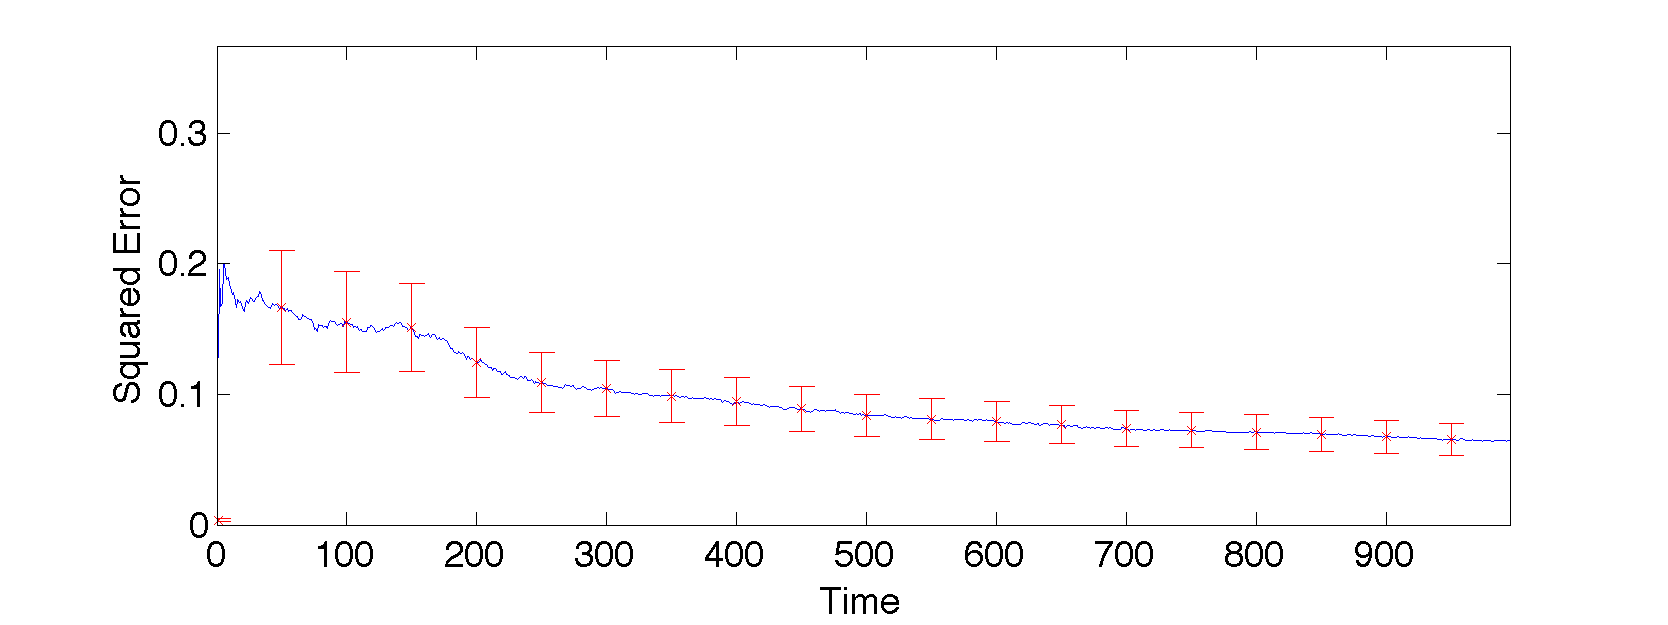
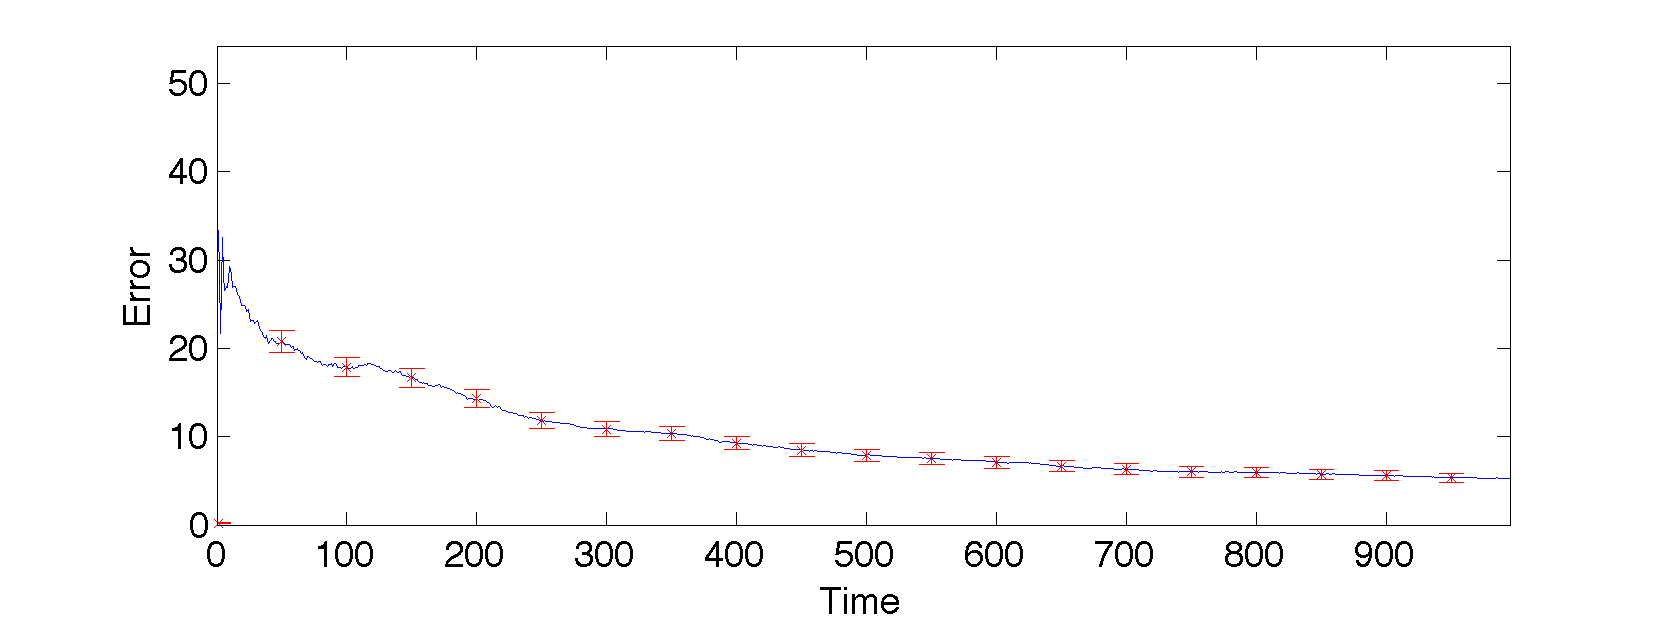
added std to results plot

diff --git a/experimentPQVTRGBBplot.m b/experimentPQVTRGBBplot.m
@@ -1,0 +1,169 @@
+f = figure('position',[10,10,800,300]);
+
+%% Position
+
+values = meanDistanceError(2:2:end-6);
+values2 = meanDistanceError(1:100:end-6);
+values2STD = stdDistanceError(1:100:end-6);
+plot(1:length(values),values);
+hold on;
+errorbar([1 (1:length(values2)-1)*50],values2,values2STD,'xr');
+hold off;
+
+axis([0 length(values) 0 max(values)+max(values2)]);
+xlabel('Time'); ylabel('Error');
+ 
+set(gca,'FontSize',18);
+set(get(gca,'XLabel'),'FontSize',18); 
+set(get(gca,'YLabel'),'FontSize',18); 
+set(gcf,'PaperUnits','points')
+set(gcf,'PaperPosition',[10,10,800,300])
+
+print(gcf, 'final-report/experiment-Distance.png', '-dpng');
+
+%% Orientation
+
+values = meanOrientationError(2:2:end-6);
+values2 = meanOrientationError(1:100:end-6);
+values2STD = stdOrientationError(1:100:end-6);
+plot(1:length(values),values);
+hold on;
+errorbar([1 (1:length(values2)-1)*50],values2,values2STD,'xr');
+hold off;
+ 
+axis([0 length(values) 0 max(values)+max(values2)]);
+xlabel('Time'); ylabel('Error');
+
+set(gca,'FontSize',18);
+set(get(gca,'XLabel'),'FontSize',18); 
+set(get(gca,'YLabel'),'FontSize',18); 
+set(gcf,'PaperUnits','points')
+set(gcf,'PaperPosition',[10,10,800,300])
+
+print(gcf, 'final-report/experiment-Orientation.png', '-dpng');
+
+%% Velocity
+
+values = meanVelocityError(2:2:end-6);
+values2 = meanVelocityError(1:100:end-6);
+values2STD = stdVelocityError(1:100:end-6);
+plot(1:length(values),values);
+hold on;
+errorbar([1 (1:length(values2)-1)*50],values2,values2STD,'xr');
+hold off;
+
+axis([0 length(values) 0 max(values)+max(values2)]);
+xlabel('Time'); ylabel('Error');
+
+set(gca,'FontSize',18);
+set(get(gca,'XLabel'),'FontSize',18); 
+set(get(gca,'YLabel'),'FontSize',18); 
+set(gcf,'PaperUnits','points')
+set(gcf,'PaperPosition',[10,10,800,300])
+
+print(gcf, 'final-report/experiment-Velocity.png', '-dpng');
+
+%% Gravity
+
+values = meanGravityError(2:2:end-6);
+values2 = meanGravityError(1:100:end-6);
+values2STD = stdGravityError(1:100:end-6);
+plot(1:length(values),values);
+hold on;
+errorbar([1 (1:length(values2)-1)*50],values2,values2STD,'xr');
+hold off;
+ 
+axis([0 length(values) 0 max(values)+max(values2)]);
+xlabel('Time'); ylabel('Error');
+
+set(gca,'FontSize',18);
+set(get(gca,'XLabel'),'FontSize',18); 
+set(get(gca,'YLabel'),'FontSize',18); 
+set(gcf,'PaperUnits','points')
+set(gcf,'PaperPosition',[10,10,800,300])
+
+print(gcf, 'final-report/experiment-Gravity.png', '-dpng');
+
+%% Pic
+
+values = meanPicError(2:2:end-6);
+values2 = meanPicError(1:100:end-6);
+values2STD = stdPicError(1:100:end-6);
+plot(1:length(values),values);
+hold on;
+errorbar([1 (1:length(values2)-1)*50],values2,values2STD,'xr');
+hold off;
+ 
+axis([0 length(values) 0 max(values)+max(values2)]);
+xlabel('Time'); ylabel('Error');
+
+set(gca,'FontSize',18);
+set(get(gca,'XLabel'),'FontSize',18); 
+set(get(gca,'YLabel'),'FontSize',18); 
+set(gcf,'PaperUnits','points')
+set(gcf,'PaperPosition',[10,10,800,300])
+
+print(gcf, 'final-report/experiment-Pic.png', '-dpng');
+
+%% Qic
+
+values = meanQicError(2:2:end-6);
+values2 = meanQicError(1:100:end-6);
+values2STD = stdQicError(1:100:end-6);
+plot(1:length(values),values);
+hold on;
+errorbar([1 (1:length(values2)-1)*50],values2,values2STD,'xr');
+hold off;
+ 
+axis([0 length(values) 0 max(values)+max(values2)]);
+xlabel('Time'); ylabel('Error');
+
+set(gca,'FontSize',18);
+set(get(gca,'XLabel'),'FontSize',18); 
+set(get(gca,'YLabel'),'FontSize',18); 
+set(gcf,'PaperUnits','points')
+set(gcf,'PaperPosition',[10,10,800,300])
+
+print(gcf, 'final-report/experiment-Qic.png', '-dpng');
+
+%% Accel Bias
+
+values = meanBiasAccelError(2:2:end-6);
+values2 = meanBiasAccelError(1:100:end-6);
+values2STD = stdBiasAccelError(1:100:end-6);
+plot(1:length(values),values);
+hold on;
+errorbar([1 (1:length(values2)-1)*50],values2,values2STD,'xr');
+hold off;
+
+axis([0 length(values) 0 max(values)+max(values2)]);
+xlabel('Time'); ylabel('Error');
+
+set(gca,'FontSize',18);
+set(get(gca,'XLabel'),'FontSize',18); 
+set(get(gca,'YLabel'),'FontSize',18); 
+set(gcf,'PaperUnits','points')
+set(gcf,'PaperPosition',[10,10,800,300])
+
+print(gcf, 'final-report/experiment-AccelBias.png', '-dpng');
+
+%% Gyro Bias
+
+values = meanBiasGyroError(2:2:end-6);
+values2 = meanBiasGyroError(1:100:end-6);
+values2STD = stdBiasGyroError(1:100:end-6);
+plot(1:length(values),values);
+hold on;
+errorbar([1 (1:length(values2)-1)*50],values2,values2STD,'xr');
+hold off;
+ 
+axis([0 length(values) 0 max(values)+max(values2)]);
+xlabel('Time'); ylabel('Error');
+
+set(gca,'FontSize',18);
+set(get(gca,'XLabel'),'FontSize',18); 
+set(get(gca,'YLabel'),'FontSize',18); 
+set(gcf,'PaperUnits','points')
+set(gcf,'PaperPosition',[10,10,800,300])
+
+print(gcf, 'final-report/experiment-GyroBias.png', '-dpng');

diff --git a/final-report/IVCalib-FinalReport.tex b/final-report/IVCalib-FinalReport.tex
@@ -288,31 +288,31 @@ orientation $\overline{q}}_I^W(0)$ of the IMU were set with their
 
 \begin{figure}[h!p]
 \centering
-\subfigure[Squared position error (m)]{
+\subfigure[Position error (m)]{
   \includegraphics[width=0.4\linewidth]{experiment-Distance.png}
 }
-\subfigure[Squared orientation error (degrees)]{
+\subfigure[Orientation error (degrees)]{
   \includegraphics[width=0.4\linewidth]{experiment-Orientation.png}
 }
-\subfigure[Squared velocity error (m/s)]{
+\subfigure[Velocity error (m/s)]{
   \includegraphics[width=0.4\linewidth]{experiment-Velocity.png}
 }
-\subfigure[Squared gravity error (m/s$^2$)]{
+\subfigure[Gravity error (m/s$^2$)]{
   \includegraphics[width=0.4\linewidth]{experiment-Gravity.png}
 }
-\subfigure[Squared IMU-Camera distance error (m)]{
+\subfigure[IMU-Camera distance error (m)]{
   \includegraphics[width=0.4\linewidth]{experiment-Pic.png}
 }
-\subfigure[Squared IMU-Camera orientation error (deg)]{
+\subfigure[IMU-Camera orientation error (deg)]{
   \includegraphics[width=0.4\linewidth]{experiment-Qic.png}
 }
-\subfigure[Squared acclerometer bias error (m/s$^2$)]{
+\subfigure[Acclerometer bias error (m/s$^2$)]{
   \includegraphics[width=0.4\linewidth]{experiment-AccelBias.png}
 }
-\subfigure[Squared gyroscope bias error (deg/s)]{
+\subfigure[Gyroscope bias error (deg/s)]{
   \includegraphics[width=0.4\linewidth]{experiment-GyroBias.png}
 }
-\caption{Squared estimation error averaged accross 50 runs}
+\caption{Estimation error averaged accross 50 runs}
 \label{fig:generalResults}
 \end{figure}
 

diff --git a/experimentPQVTRGBB.m b/experimentPQVTRGBB.m
@@ -16,10 +16,10 @@ for r=1:nRuns
     fprintf('%d',r);
     pqvtrgbbUKF
     expDistanceError = [expDistanceError distanceError'];
-    expOrientationError = [expOrientationError orientationError'];
+    expOrientationError = [expOrientationError orientationError.*180/pi'];
     expVelocityError = [expVelocityError velocityError'];
     expPicError = [expPicError picError'];
-    expQicError = [expQicError qicError'];
+    expQicError = [expQicError qicError.*180/pi'];
     expGravityError = [expGravityError gravityError'];
     expBiasAccelError = [expBiasAccelError biasAccelError'];
     expBiasGyroError = [expBiasGyroError biasGyroError'];
